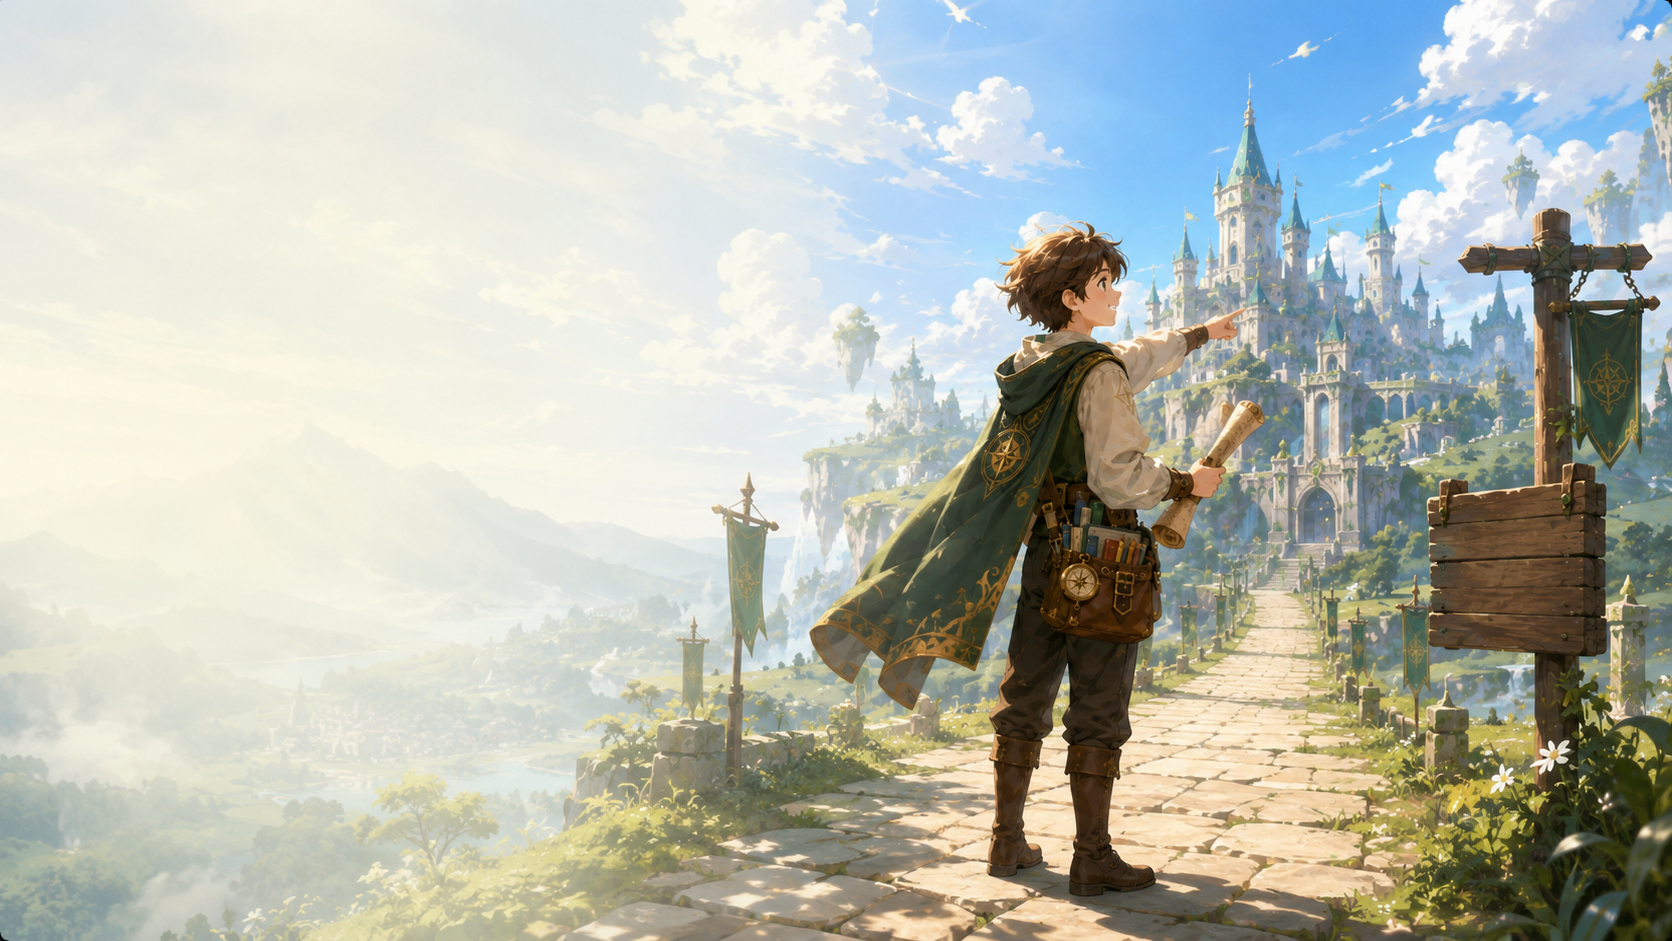
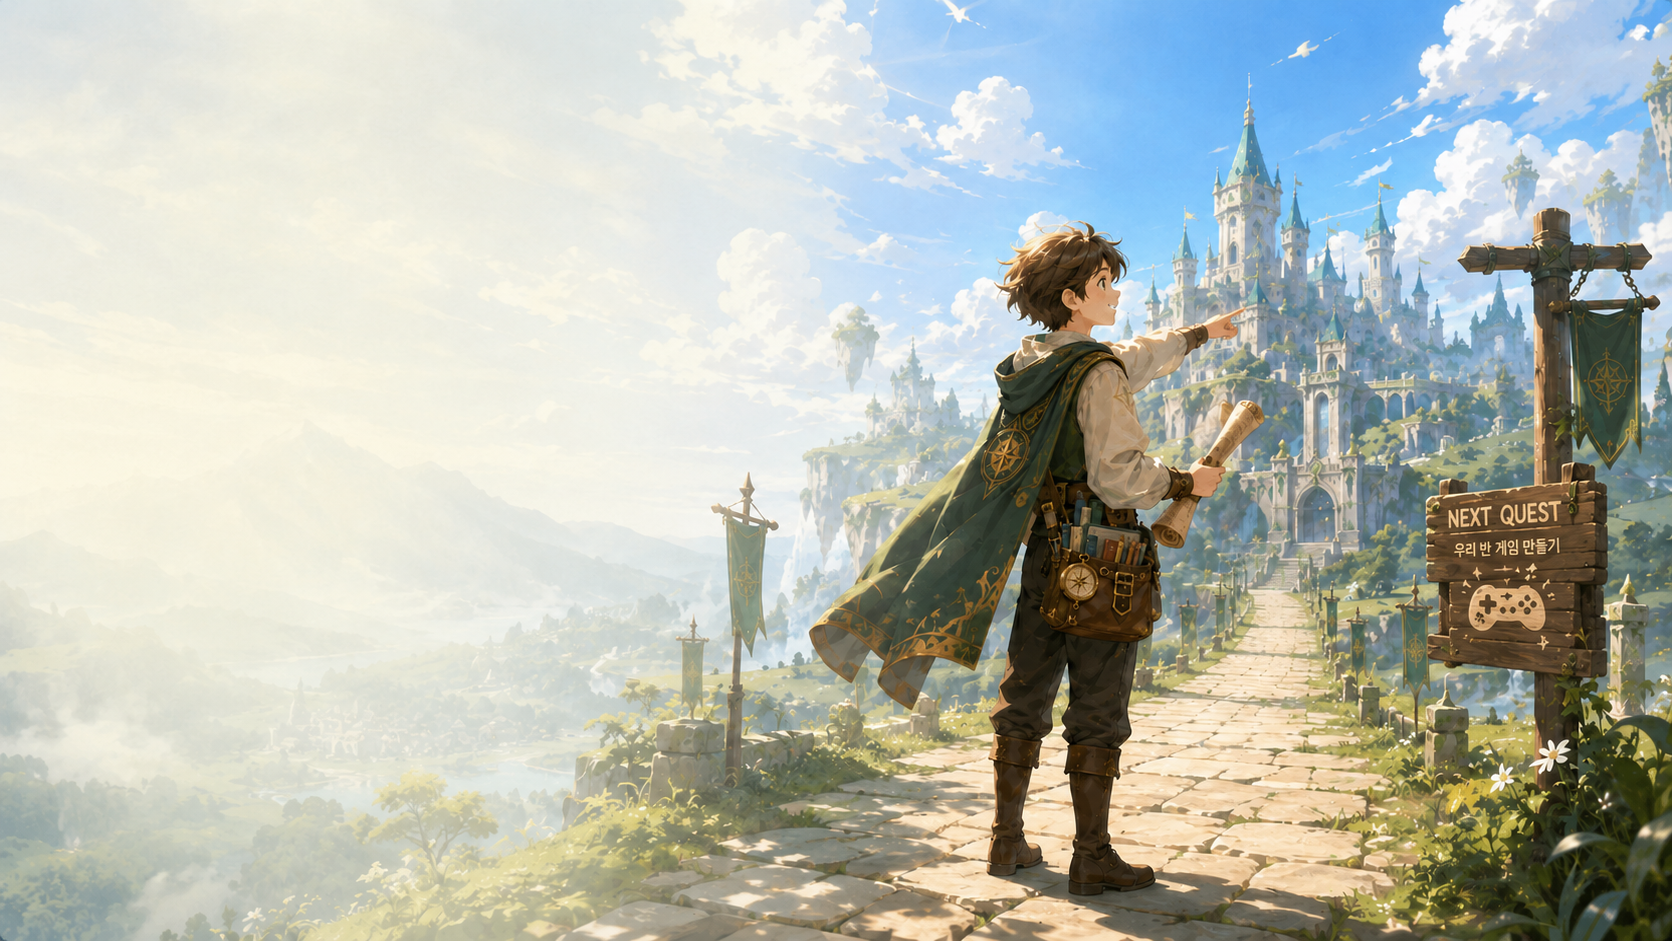
tweak: 결과 화면 - 방향 카드 이모지·골드 바 스타일·세로줄 정렬, NEXT QUEST 배경 교체
- 반응/개별/공감/확장 카드: 단어 앞 이모지(⚡🌱💗🌈 등 8방향), 다음 장면과 같은
  골드 왼줄 + 반투명 흰 배경, 카드 확대 후 단어만 한 단계 축소(최대 38px)
- 카드·다음 장면 박스를 바+패딩만큼 왼쪽으로 당겨 안쪽 글씨가 위 본문과 세로줄 일치
- INFP 코드·성향 칩 확대, 다음 장면·버튼 줄을 640px 우측 정렬로 통일, 전체 아래로
- 결과 배경을 NEXT QUEST 표지판 버전으로 교체(16유형 공통 대체 그림)

diff --git a/src/features/journey/journey-shared.css b/src/features/journey/journey-shared.css
@@ -300,27 +300,30 @@
 .journey-scene--result:has(.journey-result--art) .journey-art__motes,
 .journey-scene--result:has(.journey-result--art) .journey-art__leaves { display: none; }
 .journey-result--art .journey-result__copy { backdrop-filter: none; background: none; border: 0; box-shadow: none; max-width: min(52vw, 900px); padding: 0; }
-/* The whole column rides higher on the art. */
-.journey-scene--result:has(.journey-result--art) .journey-scene__stage { align-items: start; padding-top: calc(clamp(62px, 8.3vh, 88px) + clamp(10px, 1.8vh, 22px)); }
+/* Column sits just below the header, nudged down toward the buttons. */
+.journey-scene--result:has(.journey-result--art) .journey-scene__stage { align-items: start; padding-top: calc(clamp(62px, 8.3vh, 88px) + clamp(30px, 4.6vh, 56px)); }
 .journey-result--art .journey-kicker { color: #8a6b22; font-size: clamp(12px, .95vw, 17px); margin-bottom: clamp(14px, 2vh, 24px); }
 .journey-result--art .journey-result__eyebrow { color: #3c4a36; font-size: clamp(17px, 1.35vw, 25px); font-weight: 800; }
 .journey-result--art .journey-result__copy h1 { color: #1d4a33; font-size: clamp(46px, 4.4vw, 78px); letter-spacing: -.06em; margin: clamp(6px, 1vh, 12px) 0 clamp(16px, 2.4vh, 28px); text-shadow: 0 2px 18px rgba(255,255,255,.65), 0 1px 2px rgba(255,255,255,.5); }
 .journey-result--art .journey-result__badges { align-items: center; margin: 0 0 clamp(16px, 2.4vh, 28px); }
-.journey-result--art .journey-result__code { background: #1d4a33; border-color: #1d4a33; box-shadow: 0 4px 12px rgba(29,74,51,.3); color: #fdf6dc; }
-.journey-result--art .journey-result__strengths span { background: rgba(255,255,255,.78); border: 1px solid rgba(90,110,70,.34); box-shadow: 0 2px 8px rgba(60,70,40,.12); color: #2f3b28; }
+.journey-result--art .journey-result__code { background: #1d4a33; border-color: #1d4a33; box-shadow: 0 4px 12px rgba(29,74,51,.3); color: #fdf6dc; font-size: clamp(15px, 1.2vw, 21px); padding: clamp(8px, 1vh, 12px) clamp(16px, 1.4vw, 24px); }
+.journey-result--art .journey-result__strengths span { background: rgba(255,255,255,.78); border: 1px solid rgba(90,110,70,.34); box-shadow: 0 2px 8px rgba(60,70,40,.12); color: #2f3b28; font-size: clamp(13px, 1.05vw, 18px); padding: clamp(7px, .9vh, 11px) clamp(13px, 1.2vw, 20px); }
 .journey-result--art .journey-result__description { color: #333f2d; font-size: clamp(14px, 1.15vw, 20px); font-weight: 700; line-height: 1.8; margin: 0 0 clamp(20px, 3vh, 34px); text-shadow: 0 1px 8px rgba(255,255,255,.5); }
 /* One unbroken line on desktop — the sentence is the type's whole pitch. Phones wrap. */
 @media (min-width: 701px) { .journey-result--art .journey-result__description { white-space: nowrap; } }
-/* Direction cards at double scale, stacked 2x2. */
-.journey-result--art .journey-result__directions { display: grid; gap: clamp(10px, 1vw, 16px); grid-template-columns: repeat(2, minmax(0, 1fr)); max-width: 620px; }
-.journey-result--art .journey-result__directions span { background: rgba(255,255,255,.76); border: 1px solid rgba(90,110,70,.32); border-radius: 10px; box-shadow: 0 3px 12px rgba(60,70,40,.14); display: grid; gap: 5px; padding: clamp(13px, 1.3vw, 20px) clamp(15px, 1.5vw, 24px); }
-.journey-result--art .journey-result__directions small { color: #6b7b58; font-size: clamp(12px, .95vw, 16px); font-weight: 800; }
-.journey-result--art .journey-result__directions b { color: #20301e; font-size: clamp(24px, 2vw, 36px); letter-spacing: -.04em; }
-.journey-result--art .journey-result__caution { background: rgba(255,255,255,.55); border-left: 4px solid #8a6b22; border-radius: 0 10px 10px 0; color: #43402e; font-size: clamp(14px, 1.05vw, 18px); line-height: 1.7; margin-top: clamp(18px, 2.6vh, 30px); padding: clamp(10px, 1.2vh, 15px) clamp(14px, 1.3vw, 20px); }
+/* Direction cards 2x2, gold left-bar accent like the 다음 장면 box, on translucent white.
+   Everything from here down shares the same 640px right edge so the column reads as one. */
+/* Shifted left by exactly the bar + padding, so the words 반응/공감 sit on the same
+   vertical line as the copy text above them. */
+.journey-result--art .journey-result__directions { display: grid; gap: clamp(10px, 1vw, 16px); grid-template-columns: repeat(2, minmax(0, 1fr)); margin-left: calc(-4px - clamp(17px, 1.7vw, 28px)); max-width: 640px; }
+.journey-result--art .journey-result__directions span { background: rgba(255,255,255,.6); border: 0; border-left: 4px solid #8a6b22; border-radius: 0 10px 10px 0; box-shadow: 0 3px 12px rgba(60,70,40,.14); display: grid; gap: 6px; padding: clamp(15px, 1.5vw, 24px) clamp(17px, 1.7vw, 28px); }
+.journey-result--art .journey-result__directions small { color: #6b7b58; font-size: clamp(13px, 1.05vw, 18px); font-weight: 800; }
+.journey-result--art .journey-result__directions b { color: #20301e; font-size: clamp(25px, 2.1vw, 38px); letter-spacing: -.04em; }
+.journey-result--art .journey-result__caution { background: rgba(255,255,255,.55); border-left: 4px solid #8a6b22; border-radius: 0 10px 10px 0; box-sizing: border-box; color: #43402e; font-size: clamp(14px, 1.05vw, 18px); line-height: 1.7; margin-left: calc(-4px - clamp(14px, 1.3vw, 20px)); margin-top: clamp(18px, 2.6vh, 30px); max-width: 640px; padding: clamp(10px, 1.2vh, 15px) clamp(14px, 1.3vw, 20px); }
 .journey-result--art .journey-result__caution b { color: #8a6b22; font-size: clamp(12px, .95vw, 15px); letter-spacing: .08em; }
 .journey-result--art .journey-result__next { color: #2c5a3c; font-size: clamp(16px, 1.3vw, 23px); font-weight: 800; letter-spacing: -.03em; margin-top: clamp(16px, 2.2vh, 26px); }
 .journey-result--art .journey-result__disclaimer { color: #6e785f; font-size: clamp(12px, .95vw, 16px); line-height: 1.65; margin-top: clamp(10px, 1.6vh, 18px); }
-.journey-result--art .journey-result__actions { margin-top: clamp(24px, 3.6vh, 44px); }
+.journey-result--art .journey-result__actions { margin-top: clamp(24px, 3.6vh, 44px); max-width: 640px; }
 /* On the per-type art the painting's own character carries the reveal; the CSS lockup
    overlay just collided with him. */
 .journey-result--art .journey-result__reveal { display: none; }

diff --git a/src/features/journey/scenes/NbtiScenes.tsx b/src/features/journey/scenes/NbtiScenes.tsx
@@ -9,6 +9,7 @@ import { PrimaryButton, Progress, SceneFrame, SecondaryButton, type JourneyScene
 
 const journeyItems = [{ icon: 'clock' as const, title: '약 1분', detail: '간단한 여정' }, { icon: 'spark' as const, title: '캐릭터 성장', detail: '선택이 힘이 돼요' }, { icon: 'gamepad' as const, title: '우리 반 게임', detail: '까지 연결돼요' }]
 const directionLabels: Record<NbtiDirection, string> = { design: '설계', response: '반응', whole: '전체', individual: '개별', criteria: '기준', empathy: '공감', completion: '완성', expansion: '확장' }
+const directionEmoji: Record<NbtiDirection, string> = { design: '📐', response: '⚡', whole: '🤝', individual: '🌱', criteria: '📏', empathy: '💗', completion: '🧩', expansion: '🌈' }
 
 /** Real MBTI letters (E/I, S/N, T/F, J/P), built from the 16 questions' answers.
  *  `result.code` (e.g. "P01") is only an internal lookup id for
@@ -241,7 +242,7 @@ export function ResultScene(props: JourneySceneProps & { onPair: () => void }) {
   return (
     <SceneFrame scene="result" {...props} artSrc={typeArt}>
       <div className={`journey-result journey-result--${result.palette} ${typeArt ? 'journey-result--art' : ''} journey-enter`}>
-        <div className="journey-result__copy"><p className="journey-kicker">✦ 나의 교실 플레이 결과 ✦</p><p className="journey-result__eyebrow">나의 교실 플레이 유형은</p><h1>{result.title}</h1><div className="journey-result__badges"><span className="journey-result__code">{nbtiTypeCode(result.directions)}</span><div className="journey-result__strengths">{result.strengths.map((strength) => <span key={strength}>{strengthEmoji(strength)} {strength}</span>)}</div></div><p className="journey-result__description">{result.description}</p><div className="journey-result__directions" aria-label="나의 네 성향">{NBTI_AXES.map((axis, index) => <span key={axis.id}><small>{axis.label}</small><b>{directionLabels[result.directions[index]]}</b></span>)}</div><p className="journey-result__caution"><b>다음 장면</b>{result.caution}</p><p className="journey-result__next">교실 속 나를 발견하다. 놀이로 확장하다.</p><p className="journey-result__disclaimer">이 결과는 선생님의 모든 모습을 규정하지 않아요. 오늘의 교실 장면에서 가장 자주 드러난 선택을 보여 줍니다.</p><div className="journey-result__actions"><PrimaryButton onClick={props.onPair}>우리 반 게임 만들기</PrimaryButton><SecondaryButton onClick={() => props.onAction({ type: 'OPEN_GAME_INTRO' })}>이 기기에서 계속하기</SecondaryButton><SecondaryButton onClick={() => props.onAction({ type: 'RESET_NBTI' })}><Icon name="reset" size={19} />다시 탐색하기</SecondaryButton></div></div>
+        <div className="journey-result__copy"><p className="journey-kicker">✦ 나의 교실 플레이 결과 ✦</p><p className="journey-result__eyebrow">나의 교실 플레이 유형은</p><h1>{result.title}</h1><div className="journey-result__badges"><span className="journey-result__code">{nbtiTypeCode(result.directions)}</span><div className="journey-result__strengths">{result.strengths.map((strength) => <span key={strength}>{strengthEmoji(strength)} {strength}</span>)}</div></div><p className="journey-result__description">{result.description}</p><div className="journey-result__directions" aria-label="나의 네 성향">{NBTI_AXES.map((axis, index) => <span key={axis.id}><small>{axis.label}</small><b>{directionEmoji[result.directions[index]]} {directionLabels[result.directions[index]]}</b></span>)}</div><p className="journey-result__caution"><b>다음 장면</b>{result.caution}</p><p className="journey-result__next">교실 속 나를 발견하다. 놀이로 확장하다.</p><p className="journey-result__disclaimer">이 결과는 선생님의 모든 모습을 규정하지 않아요. 오늘의 교실 장면에서 가장 자주 드러난 선택을 보여 줍니다.</p><div className="journey-result__actions"><PrimaryButton onClick={props.onPair}>우리 반 게임 만들기</PrimaryButton><SecondaryButton onClick={() => props.onAction({ type: 'OPEN_GAME_INTRO' })}>이 기기에서 계속하기</SecondaryButton><SecondaryButton onClick={() => props.onAction({ type: 'RESET_NBTI' })}><Icon name="reset" size={19} />다시 탐색하기</SecondaryButton></div></div>
         <aside className="journey-result__reveal" aria-label="결과 해금 연출"><ClasscadeLockup /><p>{result.subtitle}</p><span>빛나는 문양이 기록되었습니다</span><i /><i /><i /></aside>
       </div>
     </SceneFrame>
